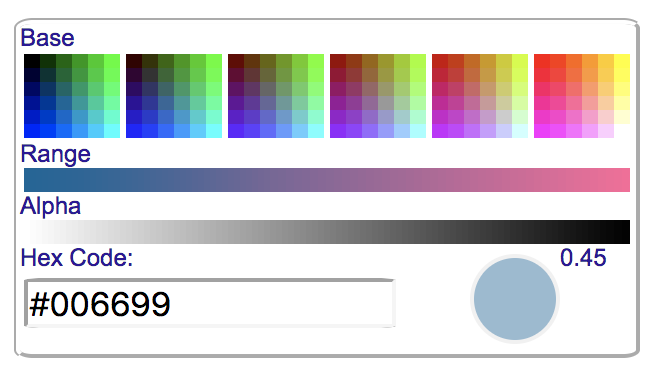
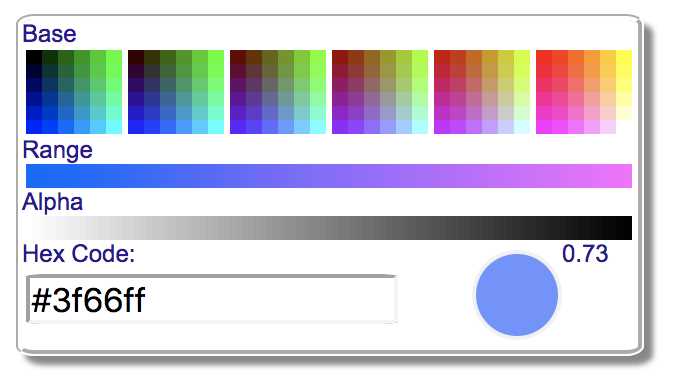
style change

diff --git a/src/css/style.less b/src/css/style.less
@@ -4,6 +4,7 @@
 	height:110px;
 	border:2px groove #ffffff;
 	border-radius: 3%;
+	box-shadow: 3px 3px 2px #888888;
 }
 div{
 	color:#330999;
